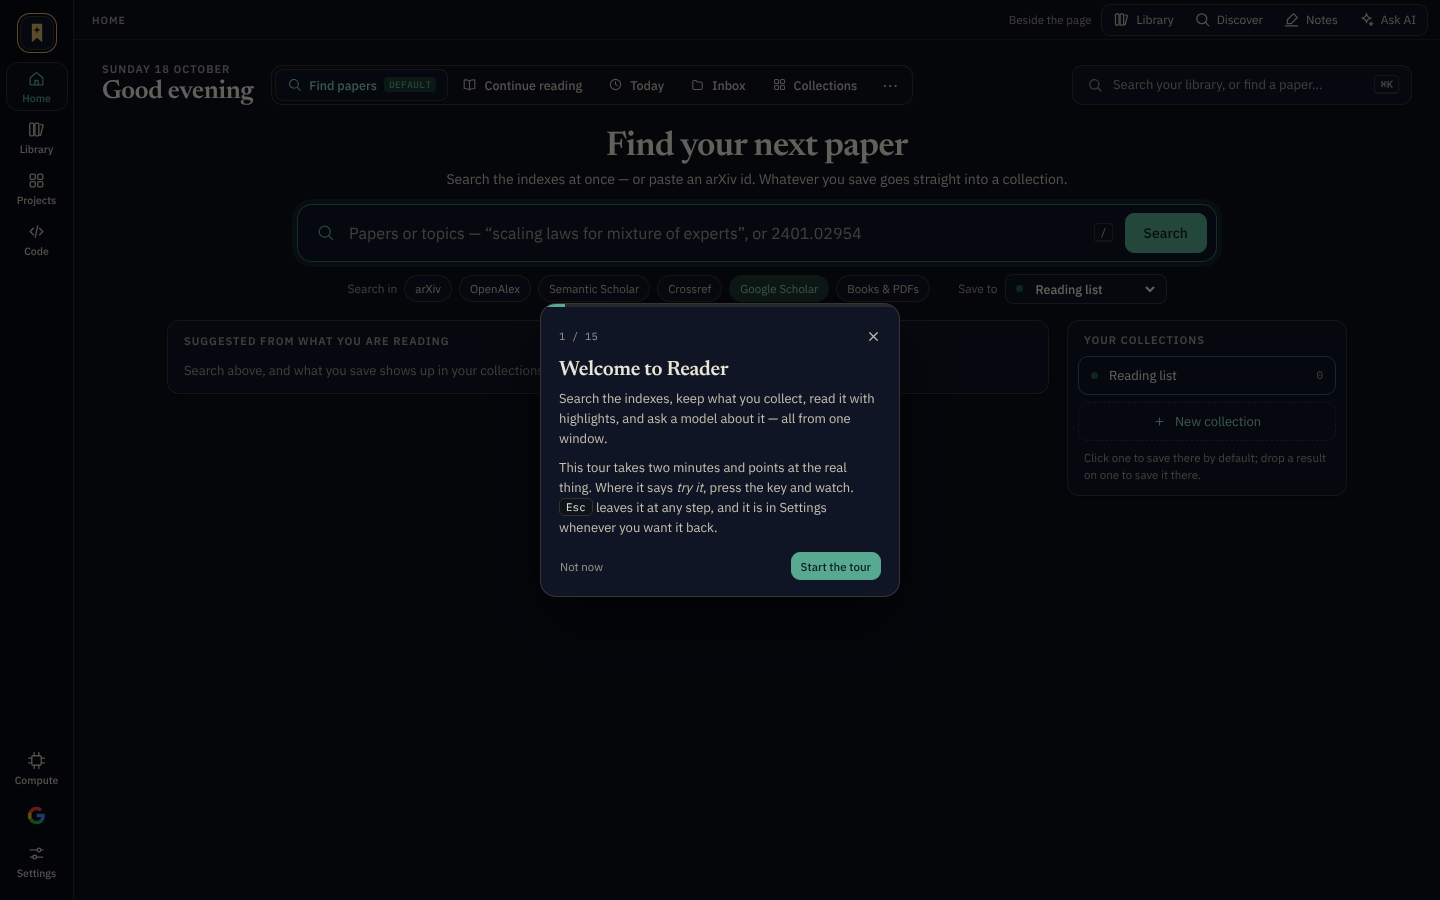
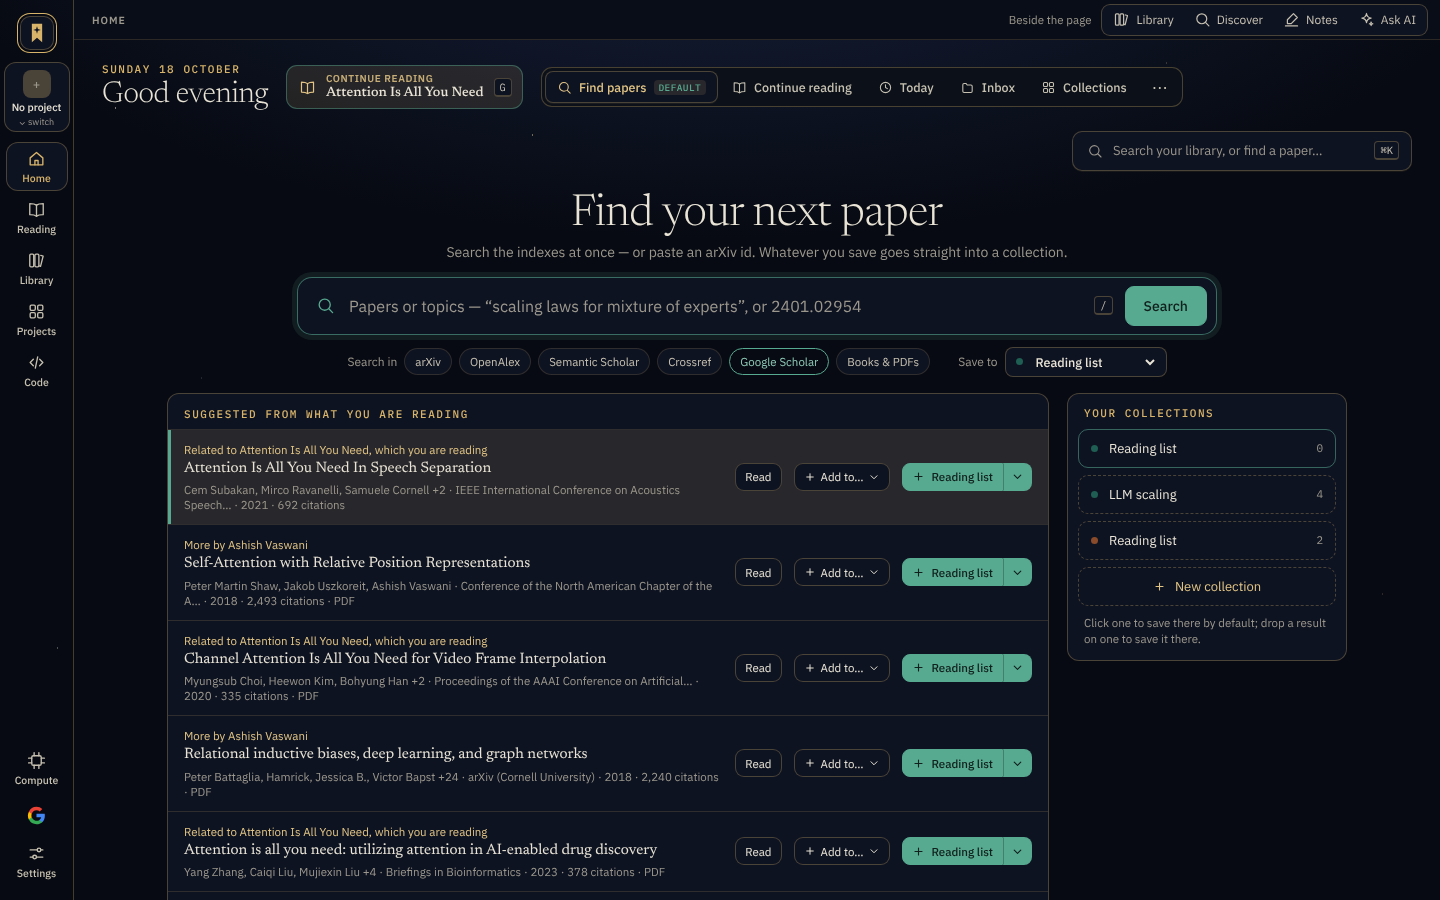
The night, deeper: the app's pages in the opening screens' world
The dark theme's colours alone left the pages looking like the old grey
theme in navy. Now, under the dark theme only: the sky's glow and a few
stars in the ground behind every page; hairlines that read as gold; the
section labels and kickers in gold, tracked, like the eyebrow on the
opening screen; headings in the light serif; the current place marked in
gold rather than green; the tints under selected things gold rather than
green. Green stays on every action. The README's night section and its
screenshots follow.

Claude-Session: https://claude.ai/code/session_01S3WfDFs8F34XiydrQJQPwm

diff --git a/src/styles.css b/src/styles.css
@@ -8918,3 +8918,80 @@ button.cal-time-num:hover { background: rgba(127, 127, 127, 0.14); }
   .is-centred .night-signin { margin-top: 2px; padding-top: 16px; }
   .night-why { margin-bottom: 12px; }
 }
+
+/* ---------- The night, deeper ----------
+   The pages in the opening screens' world, not merely their colours: the
+   sky in the ground, hairlines that read as gold, gold where a label or an
+   active place is marked, and headings in the light serif the screens use.
+   Green stays on every action. All of it under the dark theme only. */
+:root[data-theme='dark'] {
+  --paper: #090d17;
+  --surface: #0e1322;
+  --panel: #0b1019;
+  --rail: #070a12;
+  --border: rgba(216, 180, 106, 0.3);
+  --border-soft: rgba(216, 180, 106, 0.17);
+  --accent-soft: rgba(216, 180, 106, 0.13);
+  --accent-ink: #e2c585;
+  --shadow-sm: 0 1px 0 rgba(216, 180, 106, 0.08);
+}
+/* The sky: a glow at the top of the window and a few stars, behind everything. */
+:root[data-theme='dark'] .app { position: relative; z-index: 0; background: radial-gradient(ellipse 80% 55% at 50% -12%, rgba(24, 34, 62, 0.95) 0%, rgba(7, 10, 18, 0) 70%), var(--rail); }
+:root[data-theme='dark'] .app::before {
+  content: '';
+  position: absolute;
+  inset: 0;
+  z-index: -1;
+  pointer-events: none;
+  background-image:
+    radial-gradient(1.2px 1.2px at 8% 12%, rgba(233, 228, 214, 0.5) 50%, transparent 52%),
+    radial-gradient(1px 1px at 22% 6%, rgba(233, 228, 214, 0.35) 50%, transparent 52%),
+    radial-gradient(1.4px 1.4px at 37% 15%, rgba(240, 215, 154, 0.45) 50%, transparent 52%),
+    radial-gradient(1px 1px at 52% 4%, rgba(233, 228, 214, 0.3) 50%, transparent 52%),
+    radial-gradient(1.2px 1.2px at 66% 10%, rgba(233, 228, 214, 0.45) 50%, transparent 52%),
+    radial-gradient(1px 1px at 81% 7%, rgba(240, 215, 154, 0.4) 50%, transparent 52%),
+    radial-gradient(1.4px 1.4px at 93% 16%, rgba(233, 228, 214, 0.4) 50%, transparent 52%),
+    radial-gradient(1px 1px at 14% 42%, rgba(233, 228, 214, 0.25) 50%, transparent 52%),
+    radial-gradient(1px 1px at 88% 38%, rgba(233, 228, 214, 0.28) 50%, transparent 52%),
+    radial-gradient(1.2px 1.2px at 4% 72%, rgba(233, 228, 214, 0.3) 50%, transparent 52%),
+    radial-gradient(1px 1px at 96% 66%, rgba(240, 215, 154, 0.3) 50%, transparent 52%),
+    radial-gradient(1px 1px at 46% 92%, rgba(233, 228, 214, 0.22) 50%, transparent 52%),
+    radial-gradient(1.2px 1.2px at 72% 86%, rgba(233, 228, 214, 0.28) 50%, transparent 52%);
+}
+:root[data-theme='dark'] .main { background: transparent; }
+:root[data-theme='dark'] .rail { background: transparent; }
+
+/* Headings in the light serif. */
+:root[data-theme='dark'] .main h1 { font-family: var(--serif); font-weight: 400; letter-spacing: -0.01em; }
+:root[data-theme='dark'] .home-hello h1 { font-weight: 300; font-size: 30px; }
+:root[data-theme='dark'] .find-hero h2 { font-weight: 300; font-size: 44px; letter-spacing: -0.01em; }
+:root[data-theme='dark'] .find-hero p { color: var(--muted); }
+:root[data-theme='dark'] .panel-head h2 { font-weight: 500; }
+
+/* Labels and kickers in gold, tracked, the way the eyebrow on the opening screen is. */
+:root[data-theme='dark'] .home-eyebrow,
+:root[data-theme='dark'] .eyebrow,
+:root[data-theme='dark'] .lib-group,
+:root[data-theme='dark'] .lib-line-head,
+:root[data-theme='dark'] .hc-kicker,
+:root[data-theme='dark'] .hc-label,
+:root[data-theme='dark'] .menu-label,
+:root[data-theme='dark'] .sec-label,
+:root[data-theme='dark'] .notes-paper-eyebrow,
+:root[data-theme='dark'] .passage-eyebrow,
+:root[data-theme='dark'] .pg-tree-head,
+:root[data-theme='dark'] .colab-part-label,
+:root[data-theme='dark'] .rt-part-label,
+:root[data-theme='dark'] .stat-label,
+:root[data-theme='dark'] .board-card-head,
+:root[data-theme='dark'] .chat-set-title,
+:root[data-theme='dark'] .doc-menu-group { color: var(--gold); font-family: var(--mono); font-weight: 500; letter-spacing: 0.14em; }
+:root[data-theme='dark'] .home-eyebrow.accent { color: var(--gold-soft); }
+
+/* Where a place is marked as the current one: gold, not green. */
+:root[data-theme='dark'] .nav-lab.is-active { color: var(--gold); background: var(--surface); box-shadow: inset 0 0 0 1px var(--border); }
+:root[data-theme='dark'] .icon-btn[aria-current='page'],
+:root[data-theme='dark'] .icon-btn.is-active { color: var(--gold); }
+:root[data-theme='dark'] .home-card { box-shadow: none; }
+:root[data-theme='dark'] .chip { border-color: var(--border-soft); }
+:root[data-theme='dark'] .chip[aria-pressed='true'] { background: transparent; border-color: var(--accent); color: var(--accent-ink); color: #8fcbb8; }

diff --git a/README.md b/README.md
@@ -3101,13 +3101,17 @@ away until someone is in.
 
 ![the opening screen: an engraved marble profile under a gold ring, framed as a plate in the middle, "Ask well. Read slowly. Keep what matters." beneath it, and the sign-in under a hairline](docs/night-welcome.png)
 
-The dark theme is the same night: a navy ground instead of grey, cream ink,
-gold hairlines where the lines were grey, and the bookmark mark in gold on
-the rail. Green keeps every action, so the tool is still the tool. New
-visitors start in it; **Settings → Appearance** has the day theme, whose
-paper is unchanged, for reading in daylight.
+The dark theme is the same night: the sky's glow and a few stars in the
+ground, cream ink, gold hairlines where the lines were grey, the section
+labels in gold and tracked, headings in the light serif the opening screens
+use, and the bookmark mark in gold on the rail. Green keeps every action, so
+the tool is still the tool. New visitors start in it; **Settings →
+Appearance** has the day theme, whose paper is unchanged, for reading in
+daylight.
 
-![Home in the night theme: navy ground, gold hairlines around the search and the collections, the gold mark on the rail](docs/night-home.png)
+![Home in the night theme: the glow at the top of the sky, "Find your next paper" in a light serif, gold labels over the suggestions and the collections, the gold mark on the rail](docs/night-home.png)
+
+![the library in the night theme: the month's label in gold, the papers' rings, the Discover pane beside](docs/night-library.png)
 
 The words are in `src/components/NightScene.tsx`, with the scene chosen
 for the visit; the pictures' lettering was lifted off the renders in
